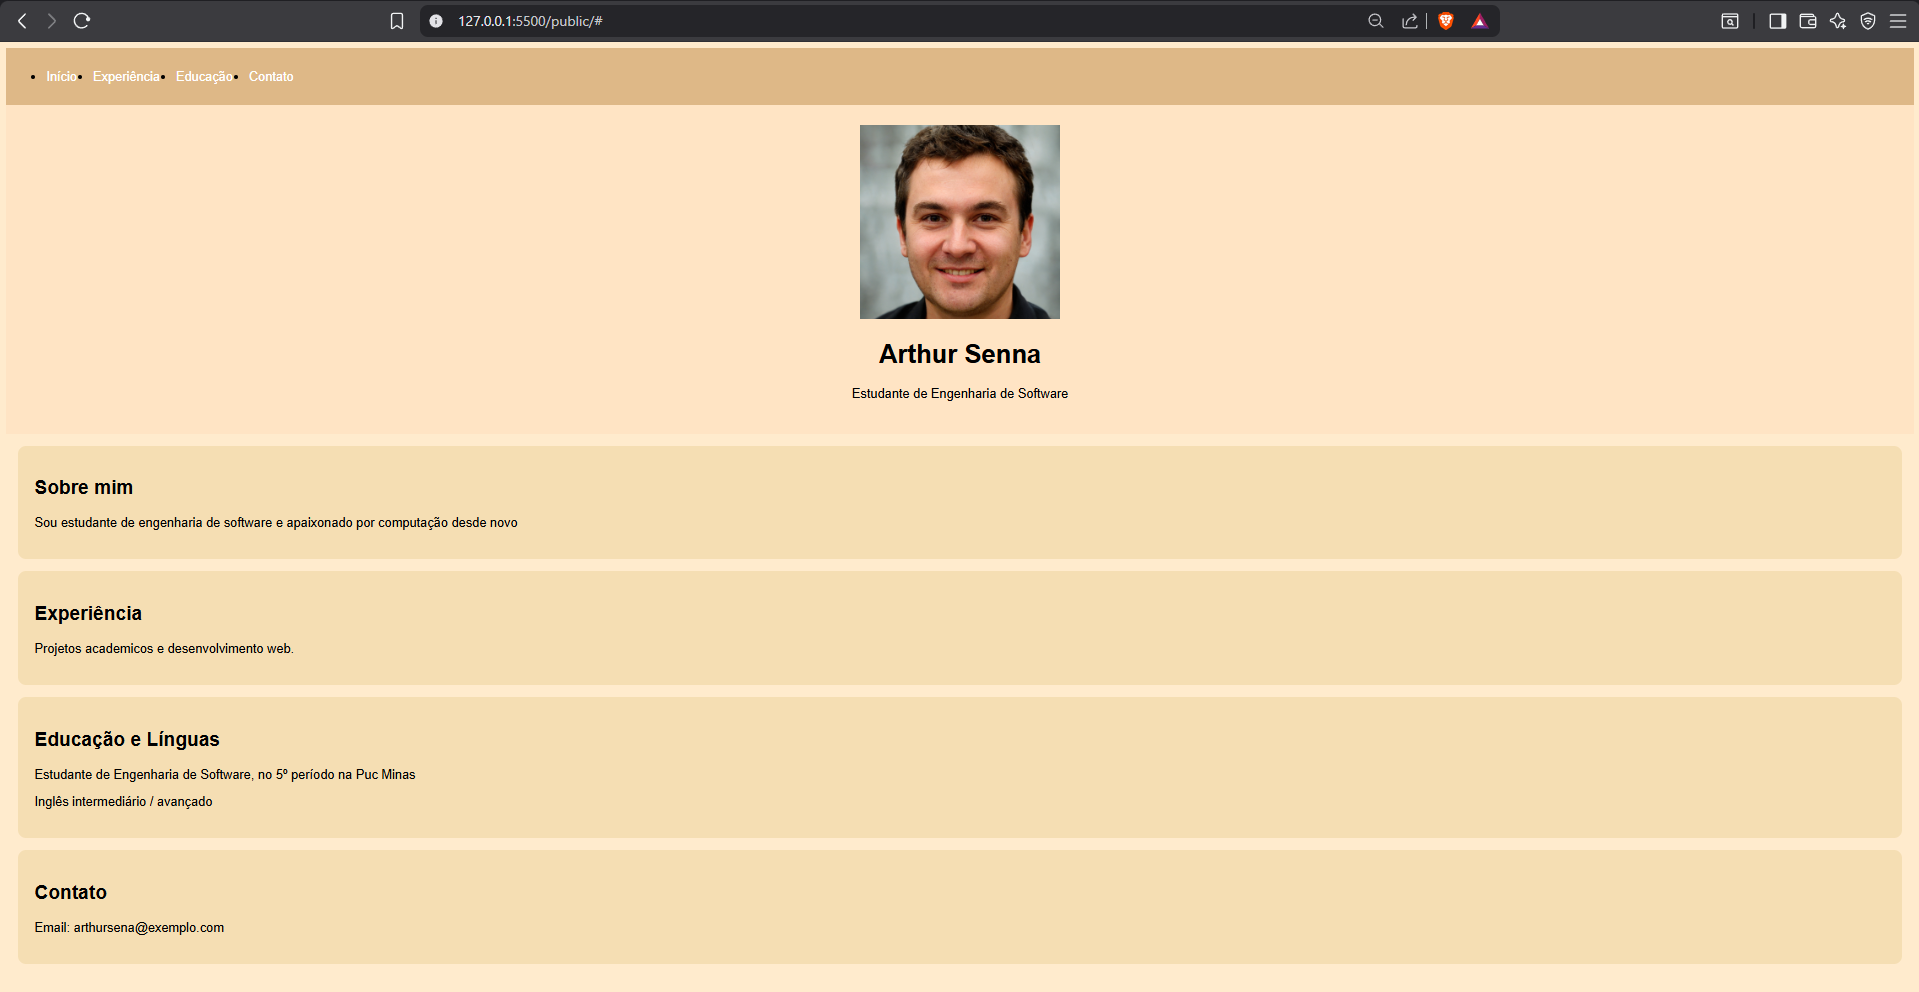
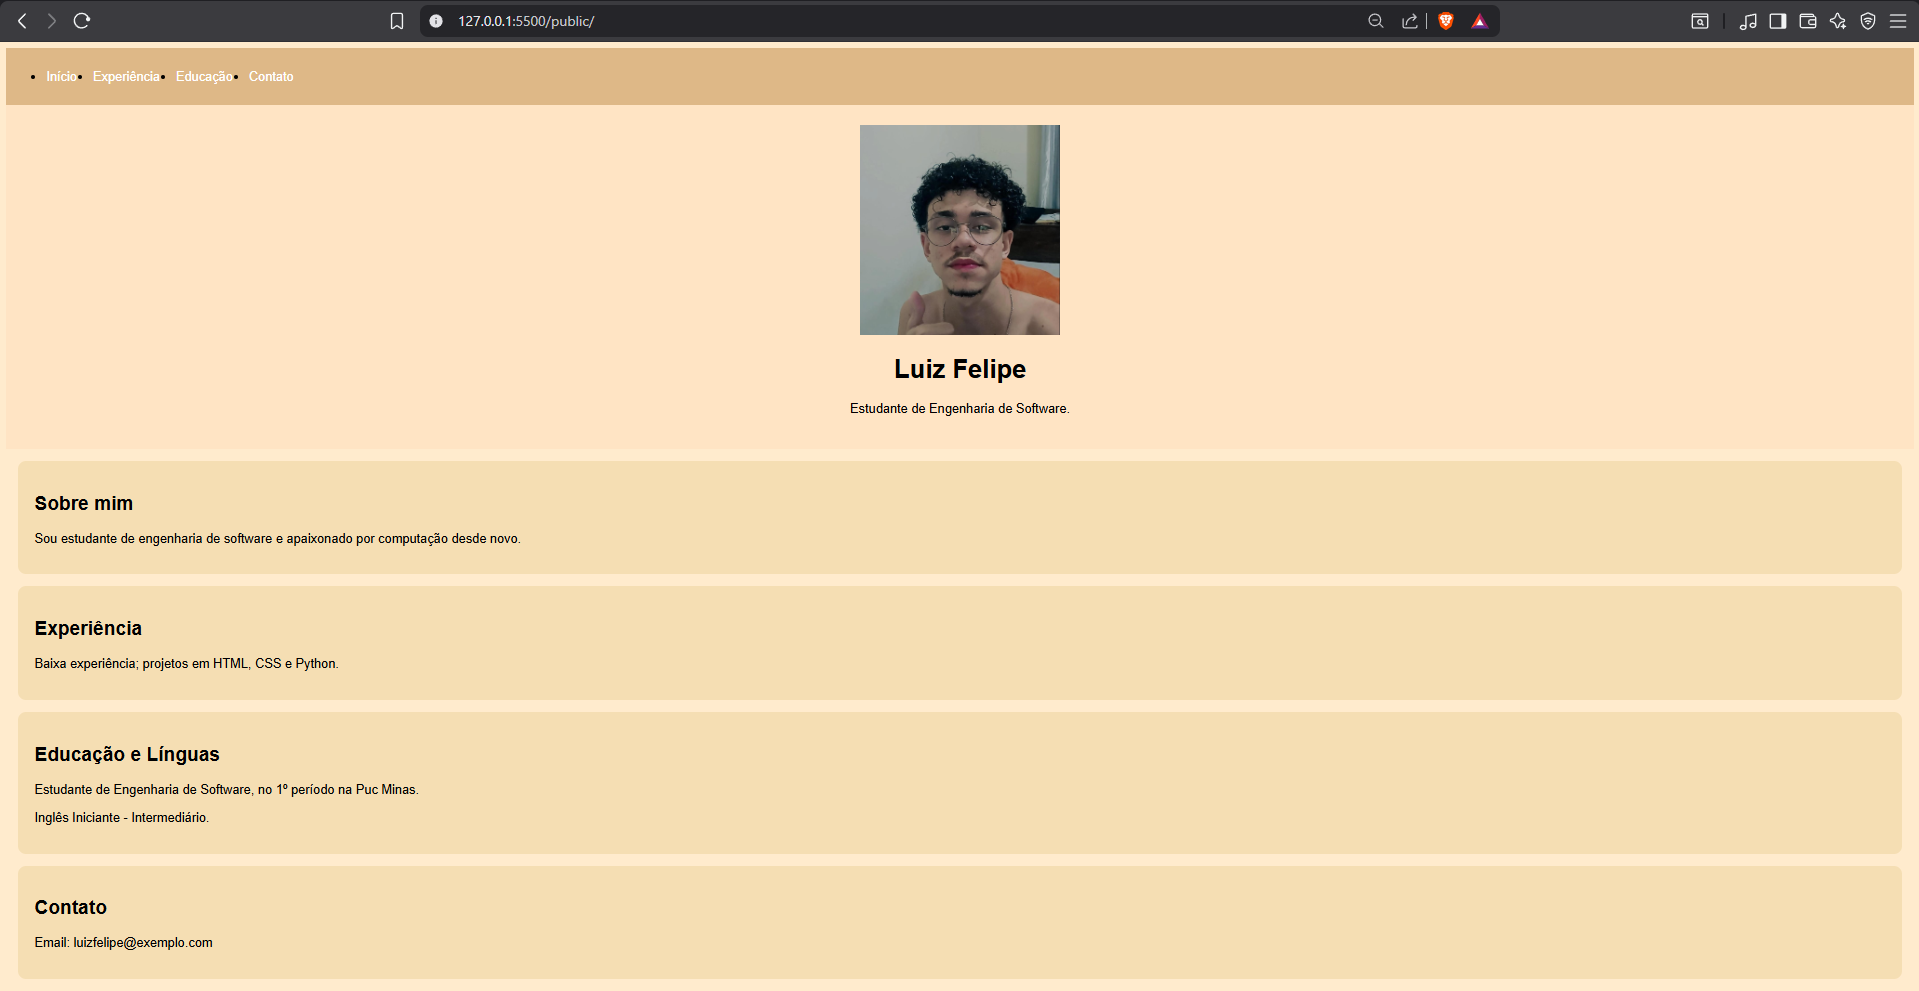
alterações no site - matrícula: 925588

Changed region(s): [[0.0, 0.4541, 1.0, 0.999], [0.4304, 0.1211, 0.5534, 0.4238], [0.8916, 0.0, 0.9224, 0.0303]]

diff --git a/public/index.html b/public/index.html
@@ -3,7 +3,7 @@
 <head>
     <meta charset="UTF-8">
     <meta name="viewport" content="width=device-width, initial-scale=1.0">
-    <title>Curriculo - Arthur Senna</title>
+    <title>Curriculo - Luiz Felipe</title>
 
     <link rel="stylesheet" href="./style.css">
 
@@ -19,29 +19,29 @@
     </nav>
     <header>   
         <img src="person.jpg" alt="Minha foto" width="250">
-        <h1>Arthur Senna</h1>
-        <p>Estudante de Engenharia de Software</p>
+        <h1>Luiz Felipe</h1>
+        <p>Estudante de Engenharia de Software.</p>
     </header>
 
     <section>
         <h2>Sobre mim</h2>
-            <p>Sou estudante de engenharia de software e apaixonado por computação desde novo</p>
+            <p>Sou estudante de engenharia de software e apaixonado por computação desde novo.</p>
     </section>
 
     <section>
         <h2>Experiência</h2>
-        <p>Projetos academicos e desenvolvimento web.</p>
+        <p>Baixa experiência; projetos em HTML, CSS e Python.</p>
     </section>
 
     <section>
         <h2>Educação e Línguas</h2>
-        <p>Estudante de Engenharia de Software, no 5º período na Puc Minas</p>
-        <p>Inglês intermediário / avançado</p>
+        <p>Estudante de Engenharia de Software, no 1º período na Puc Minas.</p>
+        <p>Inglês Iniciante - Intermediário.</p>
     </section>
 
     <section>
         <h2>Contato</h2>
-        <p>Email: arthursena@exemplo.com</p>
+        <p>Email: luizfelipe@exemplo.com</p>
     </section>
 
 
